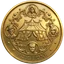
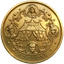
Sliver coins: 15 district tiers by lifetime Slivers, new art

diff --git a/site/me/me.js b/site/me/me.js
@@ -42,11 +42,16 @@
     clearTimeout(flash.timer);
     flash.timer = setTimeout(() => box.replaceChildren(), 6000);
   }
-  // The coin for a balance, from the ladder the API sends (worker/coins.js is the one source of truth).
-  const coinOf = (balance) => (t?.coins || []).reduce((got, c) => (balance >= c.min ? c : got), t?.coins?.[0] || null);
+  // The coin for lifetime Slivers won, from the ladder the API sends (worker/coins.js is the one source of truth).
+  const coinOf = (lifetime) => (t?.coins || []).reduce((got, c) => (lifetime >= c.min ? c : got), t?.coins?.[0] || null);
   const announce = () => {
-    const balance = t?.wallet.balance ?? 0;
-    document.dispatchEvent(new CustomEvent('belpire:tickets', { detail: { balance, coin: coinOf(balance) } }));
+    const w = t?.wallet;
+    document.dispatchEvent(new CustomEvent('belpire:tickets', { detail: { balance: w?.balance ?? 0, coin: coinOf(w?.lifetime ?? 0) } }));
+  };
+  // A win adds to both what you hold and what you've won all-time (the coin follows the second).
+  const won = (r) => {
+    t.wallet.balance = r.balance;
+    if (r.amount > 0) t.wallet.lifetime += r.amount;
   };
 
   // ---------------------------------------------------------------- gate
@@ -97,35 +102,36 @@
 
   function wallet() {
     const w = t.wallet;
-    const coin = coinOf(w.balance);
+    const coin = coinOf(w.lifetime);
     if (!coin) return; // the API always sends the coin ladder; without it there is nothing to draw
     const i = t.coins.indexOf(coin);
     const next = t.coins[i + 1] || null;
-    const meter = next ? el('div', { class: 'tb-meter', role: 'progressbar', 'aria-valuemin': String(coin.min), 'aria-valuemax': String(next.min), 'aria-valuenow': String(w.balance), 'aria-label': `Progress to the ${next.name} coin` }, el('span', { class: 'tb-meter-fill' })) : null;
+    const meter = next ? el('div', { class: 'tb-meter', role: 'progressbar', 'aria-valuemin': String(coin.min), 'aria-valuemax': String(next.min), 'aria-valuenow': String(w.lifetime), 'aria-label': `Progress to the ${next.name} coin` }, el('span', { class: 'tb-meter-fill' })) : null;
     $('tb-wallet').replaceChildren(
       el('div', { class: 'tb-coin-card' }, [
-        el('img', { class: 'tb-coin', src: coin.image, width: '160', height: '160', alt: `${coin.name} Sliver coin` }),
+        el('img', { class: 'tb-coin', src: coin.image, width: '160', height: '160', alt: `${coin.name} Sliver coin: ${coin.look}` }),
         el('div', { class: 'tb-coin-text' }, [
-          el('p', { class: 'tb-coin-name', text: coin.name }),
+          el('p', { class: 'tb-coin-name', text: `Tier ${coin.tier} · ${coin.name}` }),
           el('p', { class: 'tb-coin-num' }, [el('strong', { text: w.balance.toLocaleString() }), ` Sliver${w.balance === 1 ? '' : 's'} to spend`]),
           meter,
-          el('p', { class: 'meta', text: next ? `${(next.min - w.balance).toLocaleString()} more to the ${next.name} coin` : 'The rarest coin in Belpire.' })
+          el('p', { class: 'meta', text: next ? `Win ${(next.min - w.lifetime).toLocaleString()} more to reach ${next.name}` : 'The rarest coin in Belpire.' })
         ])
       ]),
       el('p', { class: 'meta', text: `${tickets(w.lifetime)} won all-time${w.rank ? ` · #${w.rank} on the High Scores` : w.hidden ? ' · hidden from the High Scores' : ''}` })
     );
-    if (meter) meter.firstChild.style.setProperty('--fill', `${Math.min(100, Math.round((100 * (w.balance - coin.min)) / (next.min - coin.min)))}%`);
+    if (meter) meter.firstChild.style.setProperty('--fill', `${Math.min(100, Math.round((100 * (w.lifetime - coin.min)) / (next.min - coin.min)))}%`);
     coins(i);
   }
 
-  // Every coin and what it takes. Yours is lit; the ones you've passed stay bright, the rest are dim.
+  // Every coin and what it takes, shown exactly as painted. Yours is outlined.
   function coins(mine) {
     const list = $('tb-coins');
     if (!list) return;
     list.replaceChildren(...t.coins.map((c, i) => el('li', { class: i === mine ? 'mine' : i < mine ? 'past' : 'ahead' }, [
-      el('img', { src: c.icon, width: '56', height: '56', alt: '', loading: 'lazy' }),
+      el('img', { src: c.thumb, width: '64', height: '64', alt: '', loading: 'lazy', title: c.look }),
+      el('span', { class: 'tb-coins-tier', text: `Tier ${c.tier}` }),
       el('span', { class: 'tb-coins-name', text: c.name }),
-      el('span', { class: 'tb-coins-min', text: c.min ? `${c.min.toLocaleString()}+ Slivers` : 'Under 100' }),
+      el('span', { class: 'tb-coins-min', text: c.min ? `${c.min.toLocaleString()} won` : 'Where everyone starts' }),
       i === mine ? el('span', { class: 'tb-coins-you', text: 'Your coin' }) : null
     ])));
   }
@@ -225,7 +231,7 @@
       if (r.pea !== pick) shells[pick].classList.add('lifted');
       peaLast = r.win ? `Found it! +${tickets(r.amount)}.` : `Not under that one. It was shell ${r.pea + 1}.`;
       msg.textContent = peaLast;
-      t.wallet.balance = r.balance;
+      won(r);
       t.games.shell.left = r.playsLeft;
       wallet();
       announce();
@@ -280,7 +286,7 @@
       target.append(el('span', { class: `tb-ring ${r.win ? 'on' : 'off'}` }));
       ringsLast = r.win ? `Clink! A ringer on the ${r.row} row: +${tickets(r.amount)}.` : 'It bounced off the bottle necks.';
       msg.textContent = ringsLast;
-      t.wallet.balance = r.balance;
+      won(r);
       t.games.rings.left = r.playsLeft;
       wallet();
       announce();
@@ -330,7 +336,7 @@
       if (r.bell) tower.classList.add('rung');
       strikerLast = r.bell ? `DING DING DING! You rang the bell: +${tickets(r.amount)}.` : `${r.label}! The puck reached ${r.height}.${r.amount ? ` +${tickets(r.amount)}.` : ''}`;
       msg.textContent = strikerLast;
-      t.wallet.balance = r.balance;
+      won(r);
       t.games.striker.left = r.playsLeft;
       wallet();
       announce();
@@ -420,7 +426,7 @@
     const list = $('tb-scores');
     list.replaceChildren(...(t.highScores.length ? t.highScores.map((r) => el('li', { class: r.me ? 'me' : '' }, [
       el('span', { class: 'tb-rank', text: `#${r.rank}` }),
-      r.coin ? el('img', { class: 'tb-score-coin', src: r.coin.icon, width: '28', height: '28', alt: `${r.coin.name} coin`, title: `${r.coin.name} coin` }) : null,
+      r.coin ? el('img', { class: 'tb-score-coin', src: r.coin.thumb, width: '28', height: '28', alt: `${r.coin.name} coin`, title: `${r.coin.name} coin` }) : null,
       el('span', { class: 'tb-score-name', text: r.name }),
       r.badge ? el('span', { class: 'tb-badge', title: 'Fan Favorite', 'aria-label': 'Fan Favorite', text: '✦' }) : null,
       el('span', { class: 'tb-score', text: r.lifetime.toLocaleString() })

diff --git a/worker/coins.js b/worker/coins.js
@@ -1,36 +1,42 @@
-// The Sliver coin: one coin per member, chosen by how many Slivers they hold right now. It starts broken
-// and restores as they save, so spending can take it back down. Used by /api/me, /api/tickets (wallet,
+// The Sliver coin: one coin per member, chosen by the Slivers they have won all-time (lifetime), so it only
+// ever restores, like the Pass. Fifteen tiers, named after the carnival's districts, from a shattered,
+// bloodied sliver at The Gate to the ruby coin of The Witching Hour. Used by /api/me, /api/tickets (wallet,
 // the coin ladder and the High Scores) and the Usher's /slivers.
-// Images: site/assets/slivers/<slug>-64.webp and -256.webp (cut out, square, transparent).
+// Images: site/assets/slivers/<slug>-64.webp (header), -128.webp (lists) and -384.webp (the big coin),
+// cut out to transparent squares from the owner's art and never tinted or recoloured.
 
 export const COINS = [
-  { slug: 'shattered', name: 'Shattered', min: 0 },
-  { slug: 'chipped', name: 'Chipped', min: 100 },
-  { slug: 'cracked', name: 'Cracked', min: 300 },
-  { slug: 'verdigris', name: 'Verdigris', min: 600 },
-  { slug: 'tarnished', name: 'Tarnished', min: 1000 },
-  { slug: 'aged-bronze', name: 'Aged Bronze', min: 1600 },
-  { slug: 'worn-bronze', name: 'Worn Bronze', min: 2400 },
-  { slug: 'brass', name: 'Brass', min: 3600 },
-  { slug: 'gold', name: 'Gold', min: 5000 },
-  { slug: 'gilded', name: 'Gilded', min: 8000 },
-  { slug: 'crimson-rare', name: 'Crimson Rare', min: 666666 }
+  { slug: 'the-gate', name: 'The Gate', min: 0, look: 'A shattered, razor-sharp brass sliver, stained with dried blood and rust.' },
+  { slug: 'the-ticket-booth', name: 'The Ticket Booth', min: 125, look: 'A heavily fractured brass shard, blackened with grime and missing a massive chunk.' },
+  { slug: 'the-midway', name: 'The Midway', min: 500, look: 'A battered, dented, misshapen coin still trying to hold its circle.' },
+  { slug: 'the-green-room', name: 'The Green Room', min: 1100, look: 'Dark, heavily tarnished brass covered in deep scratches and gouges.' },
+  { slug: 'the-concession-tent', name: 'The Concession Tent', min: 2000, look: 'Worn brass with faded relief and creeping green verdigris.' },
+  { slug: 'the-fortune-tellers-tent', name: 'The Fortune Teller\'s Tent', min: 3200, look: 'A whole circle again, but dull, oxidized and without any shine.' },
+  { slug: 'the-generator-shed', name: 'The Generator Shed', min: 5000, look: 'Slightly dull brass with minor edge wear and surface scuffs.' },
+  { slug: 'the-prize-booth', name: 'The Prize Booth', min: 7200, look: 'A circulated brass coin with dirt settled deep in the faces.' },
+  { slug: 'the-hall-of-oddities', name: 'The Hall of Oddities', min: 10000, look: 'Clean brass beginning to show a soft, warm sheen.' },
+  { slug: 'the-sideshow', name: 'The Sideshow', min: 13500, look: 'Nicely polished; the tent and faces are sharp and clear.' },
+  { slug: 'the-scream-reel', name: 'The Scream Reel', min: 18000, look: 'Bright, shiny brass that catches every light.' },
+  { slug: 'the-closet', name: 'The Closet', min: 24000, look: 'Immaculate, gleaming brass with no wear at all.' },
+  { slug: 'the-big-tent', name: 'The Big Tent', min: 31000, look: 'A flawless, ultra-shiny blend of gold and brass.' },
+  { slug: 'the-main-stage', name: 'The Main Stage', min: 42424, look: 'Pristine, gleaming gold: the end of the Patron\'s standard trials.' },
+  { slug: 'the-witching-hour', name: 'The Witching Hour', min: 666666, look: 'A flawless, translucent blood-red ruby with a dark red aura.' }
 ];
 
-const art = (c) => ({ slug: c.slug, name: c.name, min: c.min, icon: `/assets/slivers/${c.slug}-64.webp`, image: `/assets/slivers/${c.slug}-256.webp` });
+const art = (c, i) => ({ slug: c.slug, name: c.name, min: c.min, look: c.look, tier: i + 1, icon: `/assets/slivers/${c.slug}-64.webp`, thumb: `/assets/slivers/${c.slug}-128.webp`, image: `/assets/slivers/${c.slug}-384.webp` });
 
-export function coinIndex(balance) {
-  const b = Math.max(0, Number(balance) || 0);
+export function coinIndex(lifetime) {
+  const b = Math.max(0, Number(lifetime) || 0);
   let i = 0;
   while (i + 1 < COINS.length && b >= COINS[i + 1].min) i++;
   return i;
 }
 
-// → { slug, name, min, icon, image, level (1–11), next: { name, min, need } | null }
-export function coinFor(balance) {
-  const i = coinIndex(balance);
+// lifetime Slivers → { slug, name, min, look, tier (1–15), icon, thumb, image, next: { name, min, need } | null }
+export function coinFor(lifetime) {
+  const i = coinIndex(lifetime);
   const n = COINS[i + 1];
-  return { ...art(COINS[i]), level: i + 1, next: n ? { name: n.name, min: n.min, need: n.min - Math.max(0, Number(balance) || 0) } : null };
+  return { ...art(COINS[i], i), next: n ? { name: n.name, min: n.min, need: n.min - Math.max(0, Number(lifetime) || 0) } : null };
 }
 
 export const coinLadder = () => COINS.map(art);

diff --git a/worker/interactions.js b/worker/interactions.js
@@ -95,7 +95,7 @@ const reply = (content, { ephemeral = true } = {}) =>
   Response.json({ type: 4, data: { content: content.slice(0, 2000), flags: ephemeral ? EPHEMERAL : 0, allowed_mentions: { parse: [] } } });
 // The same reply with the member's Sliver coin as a small picture beside it.
 const replyCoin = (coin, content) =>
-  Response.json({ type: 4, data: { content: content.slice(0, 2000), flags: EPHEMERAL, allowed_mentions: { parse: [] }, embeds: [{ color: 0xd9b26a, thumbnail: { url: `https://belpire.com${coin.image}` }, description: `${coin.name} · coin ${coin.level} of 11` }] } });
+  Response.json({ type: 4, data: { content: content.slice(0, 2000), flags: EPHEMERAL, allowed_mentions: { parse: [] }, embeds: [{ color: 0xd9b26a, thumbnail: { url: `https://belpire.com${coin.image}` }, description: `${coin.name} · tier ${coin.tier} of 15` }] } });
 const opt = (data, name) => data?.options?.find((o) => o.name === name)?.value;
 const nameOf = (member) => String(member?.nick || member?.user?.global_name || member?.user?.username || 'A member').slice(0, 64);
 
@@ -111,7 +111,7 @@ async function run(env, interaction) {
   switch (data.name) {
     case 'slivers': {
       const s = await summary(env, uid);
-      return replyCoin(s.coin, `🪙 **${s.coin.name}** coin${s.coin.next ? ` · ${s.coin.next.need.toLocaleString()} more to ${s.coin.next.name}` : ''}\n🎟 **${ticketsText(s.balance)}** in your pocket · ${ticketsText(s.lifetime)} won all-time${s.rank ? ` · #${s.rank} on the High Scores` : ''}\n${s.punchedToday ? `Punch card done today (streak ${s.streak}).` : `Your punch card is waiting: \`/punch-card\` for ${ticketsText(s.nextPunch)}.`}\nMore at ${site}`);
+      return replyCoin(s.coin, `🪙 **${s.coin.name}** coin${s.coin.next ? ` · win ${s.coin.next.need.toLocaleString()} more to reach ${s.coin.next.name}` : ''}\n🎟 **${ticketsText(s.balance)}** in your pocket · ${ticketsText(s.lifetime)} won all-time${s.rank ? ` · #${s.rank} on the High Scores` : ''}\n${s.punchedToday ? `Punch card done today (streak ${s.streak}).` : `Your punch card is waiting: \`/punch-card\` for ${ticketsText(s.nextPunch)}.`}\nMore at ${site}`);
     }
     case 'punch-card': {
       const r = await punch(env, uid, name);

diff --git a/site/privacy/index.html b/site/privacy/index.html
@@ -76,7 +76,7 @@
       <li>Your <strong>Discord user ID, display name, Sliver balance and a record of each Sliver you earn or spend</strong> (what it was for and when), so your balance is correct in both places and the Ringleaders can fix mistakes.</li>
       <li>If you check in to a game night, we store that you checked in, and while the show is on our bot checks every 10 minutes whether you're still in The Main Stage voice channel (and not deafened) to pay attendance Slivers. We only check people who checked in, never anyone else, and check-ins are deleted after 3 days.</li>
       <li>Prize Booth orders: the prize, any note you add, and whether a Ringleader completed or refunded it. The bot posts a short note about each order in a staff channel and may send you a direct message about it.</li>
-      <li>The Midway High Scores show your display name, the Slivers you've won and your Sliver coin (which shows roughly how many Slivers you're holding) to other signed-in members, and our bot posts the board (that week's top earners and the all-time leaders) in the server's announcements channel every Sunday. You can hide yourself from the board, and from those posts, at any time on Your Ticket Booth page.</li>
+      <li>The Midway High Scores show your display name, the Slivers you've won and your Sliver coin (which reflects the Slivers you've won) to other signed-in members, and our bot posts the board (that week's top earners and the all-time leaders) in the server's announcements channel every Sunday. You can hide yourself from the board, and from those posts, at any time on Your Ticket Booth page.</li>
       <li>When you use one of our slash commands, Discord sends us the command along with your Discord user ID, display name and server roles. We use them to answer and don't keep anything beyond the ticket records above.</li>
       <li>We don't read your Discord messages, and we don't track your activity in Discord beyond the check-ins described above. Sliver records are kept while the ticket booth runs; ask us and we'll delete yours.</li>
     </ul>

diff --git a/site/me/me.css b/site/me/me.css
@@ -24,11 +24,11 @@
 .tb-coin-num strong { display: block; font: 900 clamp(40px, 7vw, 56px)/1 var(--display); color: var(--text, #F4EBDD); }
 
 /* the coin ladder */
-.tb-coins { list-style: none; margin: 14px 0 0; padding: 0; display: grid; grid-template-columns: repeat(auto-fill, minmax(118px, 1fr)); gap: 10px; }
+.tb-coins { list-style: none; margin: 14px 0 0; padding: 0; display: grid; grid-template-columns: repeat(auto-fill, minmax(132px, 1fr)); gap: 10px; }
 .tb-coins li { display: grid; justify-items: center; gap: 4px; padding: 12px 8px; border-radius: 8px; border: 1px solid var(--line-strong); text-align: center; }
-.tb-coins img { width: 56px; height: 56px; }
-.tb-coins li.ahead img { filter: grayscale(.85) brightness(.6); }
+.tb-coins img { width: 64px; height: 64px; } /* shown exactly as painted, never tinted */
 .tb-coins li.mine { border-color: var(--gold); background: rgba(217, 178, 106, .1); box-shadow: 0 0 0 1px var(--gold) inset; }
+.tb-coins-tier { font: 700 11px var(--serif); letter-spacing: .14em; text-transform: uppercase; color: var(--muted); }
 .tb-coins-name { font-weight: 700; font-size: 14px; }
 .tb-coins-min { color: var(--muted); font-size: 13px; font-variant-numeric: tabular-nums; }
 .tb-coins-you { font: 700 11px var(--serif); letter-spacing: .14em; text-transform: uppercase; color: var(--gold); }

diff --git a/site/me/index.html b/site/me/index.html
@@ -77,7 +77,7 @@
 
       <section id="coins" class="panel tb-coins-panel" aria-labelledby="tb-coins-h">
         <h2 id="tb-coins-h">Sliver coins</h2>
-        <p class="meta">Your coin shows how many Slivers you're holding right now. Save up and it restores, all the way to the Crimson Rare. Spend and it can slip back a step.</p>
+        <p class="meta">Your coin shows every Sliver you've ever won. It starts as a shattered sliver at The Gate and restores, district by district, all the way to The Witching Hour. Spending never takes it back.</p>
         <ol id="tb-coins" class="tb-coins"></ol>
       </section>
 
@@ -114,7 +114,7 @@
       <div class="tb-grid">
         <section id="scores" class="panel" aria-labelledby="tb-scores-h">
           <h2 id="tb-scores-h">Midway High Scores</h2>
-          <p class="meta">Most Slivers won, all time. Spending never costs you a place, but your coin shows what you're holding now.</p>
+          <p class="meta">Most Slivers won, all time. Spending never costs you a place or your coin.</p>
           <ol id="tb-scores" class="tb-scores"></ol>
           <label class="tb-check"><input type="checkbox" id="tb-hide"> Keep me off the High Scores</label>
         </section>

diff --git a/worker/tickets.js b/worker/tickets.js
@@ -349,13 +349,13 @@ export async function summary(env, uid) {
     nextPunch: punchAmount(w?.punch_day === prevDay(today) ? Number(w.streak || 0) + 1 : 1),
     hidden: Boolean(w?.hidden),
     rank: await store.rank(uid),
-    coin: coinFor(w?.balance)
+    coin: coinFor(w?.lifetime)
   };
 }
 
 export async function highScores(env, uid = null, limit = 10) {
   const now = new Date().toISOString();
-  return (await ticketStore(env.DB).leaderboard(limit)).map((r, i) => ({ rank: i + 1, name: r.name, lifetime: Number(r.lifetime), coin: coinFor(r.balance), badge: Boolean(r.badge_until && r.badge_until > now), me: r.user_id === uid }));
+  return (await ticketStore(env.DB).leaderboard(limit)).map((r, i) => ({ rank: i + 1, name: r.name, lifetime: Number(r.lifetime), coin: coinFor(r.lifetime), badge: Boolean(r.badge_until && r.badge_until > now), me: r.user_id === uid }));
 }
 
 const publicOrder = (o) => ({ id: o.id, prize: o.prize, name: prizeById(o.prize)?.name || o.prize, cost: o.cost, detail: o.detail, game: o.game_name, status: o.status || 'pending', at: o.created_at || new Date().toISOString(), reason: o.reason || null });

diff --git a/CLAUDE.md b/CLAUDE.md
@@ -17,7 +17,7 @@ belpire.com, the public website for the **Belpire Carnival** Discord community (
 - **Game Night passes** (`worker/passes.js`, `site/big-tent/passes.js`): the Game Night role lets members into The Main Stage; Ringleaders approve each one on the Backstage page. Members ask on The Big Tent (bot adds `GAME_NIGHT_PENDING_ROLE_ID`) or by answering Yes in Discord onboarding (gives the Pending role; the cron lists members, which needs the Server Members intent, and queues them; anyone with both roles just loses Pending). A note goes to `MOD_CHANNEL_ID` (optional). Approve → `GAME_NIGHT_ROLE_ID` on, Pending off, DM; deny → Pending off, optional reason by DM. Requests live in D1 `pass_requests`. The live banner sends members without the role to the pass instead of the channel. The bot needs Manage Roles and a role above both.
 - **Header** (`site/header.css`, loaded after each page's own stylesheet on belpire.com): pinned to the top while scrolling; at 960px and below `site/account.js` folds the links into a Menu button (adds `.js-nav`; without JS the links simply wrap). Account and Menu dropdowns close each other.
 - **Sign in** (`site/account.js`, on every page with the main nav): the top-right button is a plain "Sign in" link to `/auth/login` (returns to the current page; `/` and `/join/` go to `/me/`). Signed in, it becomes a menu built from `GET /api/me` (`worker/me.js`: membership, pass status, unvoted polls, live status, ticket summary, and for Ringleaders counts of what's waiting Backstage; Green Room "new message" uses a `localStorage` seen-marker set by `staff-chat.js`).
-- **Slivers** (the currency members see; every ticket holds a sliver of someone's life, so the physical ticket, the Ticket Booth and "Get your ticket" keep their names. Code, API paths and D1 tables still say `tickets`; don't rename those, the data lives there. Snacks at the Concession Tent (`/concession`, `RULES.snacks`) cost Slivers and are counted by ledger ref for the curd Feats.) (`worker/tickets.js`, `worker/ticket-db.js`, prizes in `worker/prizes.js`, page `site/me/` "Your Ticket Booth", Backstage panel `site/big-tent/prizes-staff.js`): one bank in D1 (`ticket_wallets` running balance + `ticket_ledger` every change, with a unique `ref` so retries and cron runs never pay twice). Earn: daily punch card (streak bonus, days roll over at midnight Eastern), Find the Pea (shell game, 5 a day), Ring Toss (pick a row; odds and prizes per row in `RULES.ringRows`, 5 a day) and the High Striker (puck height 1–10 from `RULES.strikerTiers`, bell = jackpot, 3 a day), all decided server-side with crypto randomness and shown with the odds on the page, game-night attendance (check in while in The Main Stage; the cron pays every 10 minutes while still there and not deafened, capped per show; only checked-in people are ever looked up), Ringleader awards. Spend: Prize Booth orders wait Backstage (Mark done → DM; Refund → tickets back + DM). "Put a game on the ballot" orders arrive pre-ticked in the Backstage poll form and complete when a poll opens with that game. Midway High Scores rank tickets won (lifetime), with an opt-out; every Sunday at noon Eastern (`POST_HOUR_ET`) the cron posts the week's top earners and the all-time leaders to `ANNOUNCEMENTS_CHANNEL_ID` once (`ticket_posts` claims the week), and Ringleaders can post it on demand from Backstage (`POST /api/tickets/post-scores`). Rules/amounts live in `RULES` in `tickets.js`. **Sliver coins** (`worker/coins.js`, the one ladder): 11 coins from Shattered (0) to Crimson Rare (666,666), picked by the balance held now, so spending can drop it a step. `summary()` (so `/api/me` and the wallet) and each High Scores row carry `coin`; `/api/tickets` sends the ladder as `coins` so the Ticket Booth can recompute after a game. Shown in the header's account button, on Your Ticket Booth (your coin, progress to the next, and the whole ladder), beside each High Scores name, and as the thumbnail on `/slivers`. Art: `site/assets/slivers/<slug>-64.webp` and `-256.webp`, owner-supplied coins cut out to transparent squares.
+- **Slivers** (the currency members see; every ticket holds a sliver of someone's life, so the physical ticket, the Ticket Booth and "Get your ticket" keep their names. Code, API paths and D1 tables still say `tickets`; don't rename those, the data lives there. Snacks at the Concession Tent (`/concession`, `RULES.snacks`) cost Slivers and are counted by ledger ref for the curd Feats.) (`worker/tickets.js`, `worker/ticket-db.js`, prizes in `worker/prizes.js`, page `site/me/` "Your Ticket Booth", Backstage panel `site/big-tent/prizes-staff.js`): one bank in D1 (`ticket_wallets` running balance + `ticket_ledger` every change, with a unique `ref` so retries and cron runs never pay twice). Earn: daily punch card (streak bonus, days roll over at midnight Eastern), Find the Pea (shell game, 5 a day), Ring Toss (pick a row; odds and prizes per row in `RULES.ringRows`, 5 a day) and the High Striker (puck height 1–10 from `RULES.strikerTiers`, bell = jackpot, 3 a day), all decided server-side with crypto randomness and shown with the odds on the page, game-night attendance (check in while in The Main Stage; the cron pays every 10 minutes while still there and not deafened, capped per show; only checked-in people are ever looked up), Ringleader awards. Spend: Prize Booth orders wait Backstage (Mark done → DM; Refund → tickets back + DM). "Put a game on the ballot" orders arrive pre-ticked in the Backstage poll form and complete when a poll opens with that game. Midway High Scores rank tickets won (lifetime), with an opt-out; every Sunday at noon Eastern (`POST_HOUR_ET`) the cron posts the week's top earners and the all-time leaders to `ANNOUNCEMENTS_CHANNEL_ID` once (`ticket_posts` claims the week), and Ringleaders can post it on demand from Backstage (`POST /api/tickets/post-scores`). Rules/amounts live in `RULES` in `tickets.js`. **Sliver coins** (`worker/coins.js`, the one ladder): 15 tiers named after the districts, The Gate (0) to The Witching Hour (666,666), picked by **lifetime** Slivers won, so a coin never goes back down (the owner chose this, and chose to show all 15 names on the site). `summary()` (so `/api/me` and the wallet) and each High Scores row carry `coin`; `/api/tickets` sends the ladder as `coins` so the Ticket Booth can recompute after a game. Shown in the header's account button, on Your Ticket Booth (your coin, progress to the next, and the whole ladder), beside each High Scores name, and as the thumbnail on `/slivers`. Art: `site/assets/slivers/<slug>-64.webp` (header), `-128.webp` (ladder, High Scores) and `-384.webp` (the big coin, `/slivers`), owner-supplied coins cut out to transparent squares. Show them exactly as painted: no filters, tints or dimming, even for coins not reached yet.
 - **Slash commands** (`worker/interactions.js`, `POST /api/discord/interactions`, the app's Interactions Endpoint URL): Ed25519 signature check with the `DISCORD_PUBLIC_KEY` runtime secret (5-minute timestamp window), answers immediately with no gateway connection. `/slivers`, `/punch-card`, `/find-the-pea`, `/ring-toss`, `/high-striker`, `/checkin`, `/concession`, `/high-scores`, `/prizes`, `/redeem`, `/poll` and `/give-slivers` (Ringleaders, checked against `POLL_MANAGER_ROLE_IDS` from the interaction's member roles). Same functions as the website, so both always agree. Register or update them with `npm run commands` (`scripts/register-commands.mjs`, reads `DISCORD_APP_ID`, `DISCORD_BOT_TOKEN`, `DISCORD_GUILD_ID` from the environment or the git-ignored `.env`).
 - **Alpha tester sign-ups** (`worker/alpha.js`, buttons and a form through the same interactions endpoint) for a members-only Discord project. **That project lives only in Discord: never name or describe it in this repo, on the website, in commit messages or in PR text**, and never show anything about it on belpire.com (including Slivers earned there; the site only ever shows the balance). A pinned Discord post has a "Sign up for the alpha" button (`custom_id` `alpha:signup`, posted by the owner's local setup script with the Usher's token, so presses reach this Worker). Only holders of `ALPHA_ACCESS_ROLE_ID` get the form. Answers go **only to the server owner by DM** (owner read from Discord, never stored) with Approve/Decline buttons that only the owner can press; a staff channel would be visible to anyone with Administrator. Approve → `ALPHA_TESTER_ROLE_ID` + welcome DM; decline → kind DM, can retry after 30 days. D1 `alpha_signups` keeps ID, name, status and dates (never the answers); approved rows stay so early testers can be thanked later. A test fails if `alpha.js` names the project.
 - **Bureau of Finality** (the community's multi-game org; FINTAC on RSI) lives at **bureau.belpire.com**. HQ (`site/bureau/index.html`) holds what's org-wide: creed, divisions, dossier, rules of engagement, command, enlist. Each game is a **division** with its own page and tab, codes in the form `DIV_<code>`: `rsi1/` Star Citizen (FINTAC on RSI/Spectrum), `se1/` Helldivers (the HD2 Clans clan), `bf1/` Battlefield, `tc1/` Tom Clancy (The Division, The Division 2, Ghost Recon Wildlands and Breakpoint) and `ds1/` Destiny (both forming). `sq1/` is **not a game**: it is the **Tactical Command Center (TCC)**, the Bureau's members-only Discord, with the last tab ("Command Center") and its own page about what members get. HQ's `#dossier` is the **Historical Record**: the org was founded April 9, 2026 (FINTAC), and its four eras map onto the divisions (I Origins 2026–2035 = TC1, II Escalation 2035–2099 = BF1, III Expansion 2100–2950 = RSI1, IV Cosmic Front 2950–beyond = SE1 and DS1); era art is `site/bureau/img/era-<n>.webp`, cropped from the owner's timeline mockup, and `site/bureau/record.js` reveals the cards and counts days since the origin event. Keep division subtitles and briefs consistent with those eras. Every page shares one header: gold lettering brand, bracketed in-page links, and an evenly spaced division tab bar (`aria-current` marks the open division). To add a division: copy a division folder, add its tab to the `.divs` nav on every page, add its card on HQ, and add it to the og-image list in `repo.test.mjs`. the same Worker serves it from `site/bureau/` by hostname (`worker/bureau.js`; `run_worker_first: true` so the Worker sees every request; shared `/fonts/`, `/og/` and icons pass through; `/api/*` and `/auth/*` go back to belpire.com; `belpire.com/bureau/` 301s to the subdomain; other hosts serve `/bureau/` as a folder for previews). Its own navy-and-gold look in `site/bureau/bureau.css`, with relative links so it works on both. HQ's hero is a canvas scene (`site/bureau/battle.js`: fighters over a planet and citadel, with a ground front in each lower corner; its other modes are a fallback for a division with no painted art). Each **division hero is owner-supplied painted art** (`site/bureau/img/scene-<code>.webp`, 1200x804, the painted title and buttons removed) in a `.stage` sized in CSS to cover the hero; crest, title, subtitle and motto are live and placed in image pixels (`calc(var(--sw) * n / 1200)`, per-scene numbers on `.stage[data-scene]`) so the official crest sits exactly on the painted one. `site/bureau/fx.js` animates each picture from hotspots measured on it (firelight, embers, smoke, radar sweeps, tank muzzle flashes and tracers for bf1; camera-feed static, map pings, scanning logs and live telemetry bars for sq1; lasers, explosion bursts and twinkling stars for rsi1; falling drop pods, red beams, blasts and lava glow for se1; muzzle flashes, tracers, embers and a camera feed for tc1; lasers, radar sweeps, meteors and void glow for ds1). The tc1 and ds1 posters were portrait, so they were widened to 1200x804 with blurred, darkened wings, and their crest sits above the title (`--ty` below `--cy`), plus a slow camera drift and pointer parallax; all of it stops under reduced motion and off-screen. If a scene picture changes, re-measure its hotspots and crest position. Division link previews are `site/og/bureau-<code>.jpg`. The crest in `site/bureau/img/` is the org's own logo (owner-supplied, used as is; the site's "gold" tokens are a matching brushed bronze); never RSI/CIG logos or ships. Star Citizen moved off belpire.com: DIV_RSI1 runs Operations, **The Comm Array** (tabs: Network Status and Comm-Link Feed), The theatre (contract notes + reporting in) and **The Quartermaster** (the community tools), from `site/bureau/rsi1/sc.js` + `tools.json`, `belpire.com/star-citizen/` 301s to `bureau.belpire.com/rsi1/`. Every other game division (se1, bf1, tc1, ds1) has its own **Quartermaster** of reference links in `site/bureau/<code>/tools.json`, drawn by the shared `site/bureau/quartermaster.js` (https links only; kinds: official, wiki, map, web, app, overlay, bureau), and the main nav's "The Bureau [TCC]" link goes straight to the subdomain.
